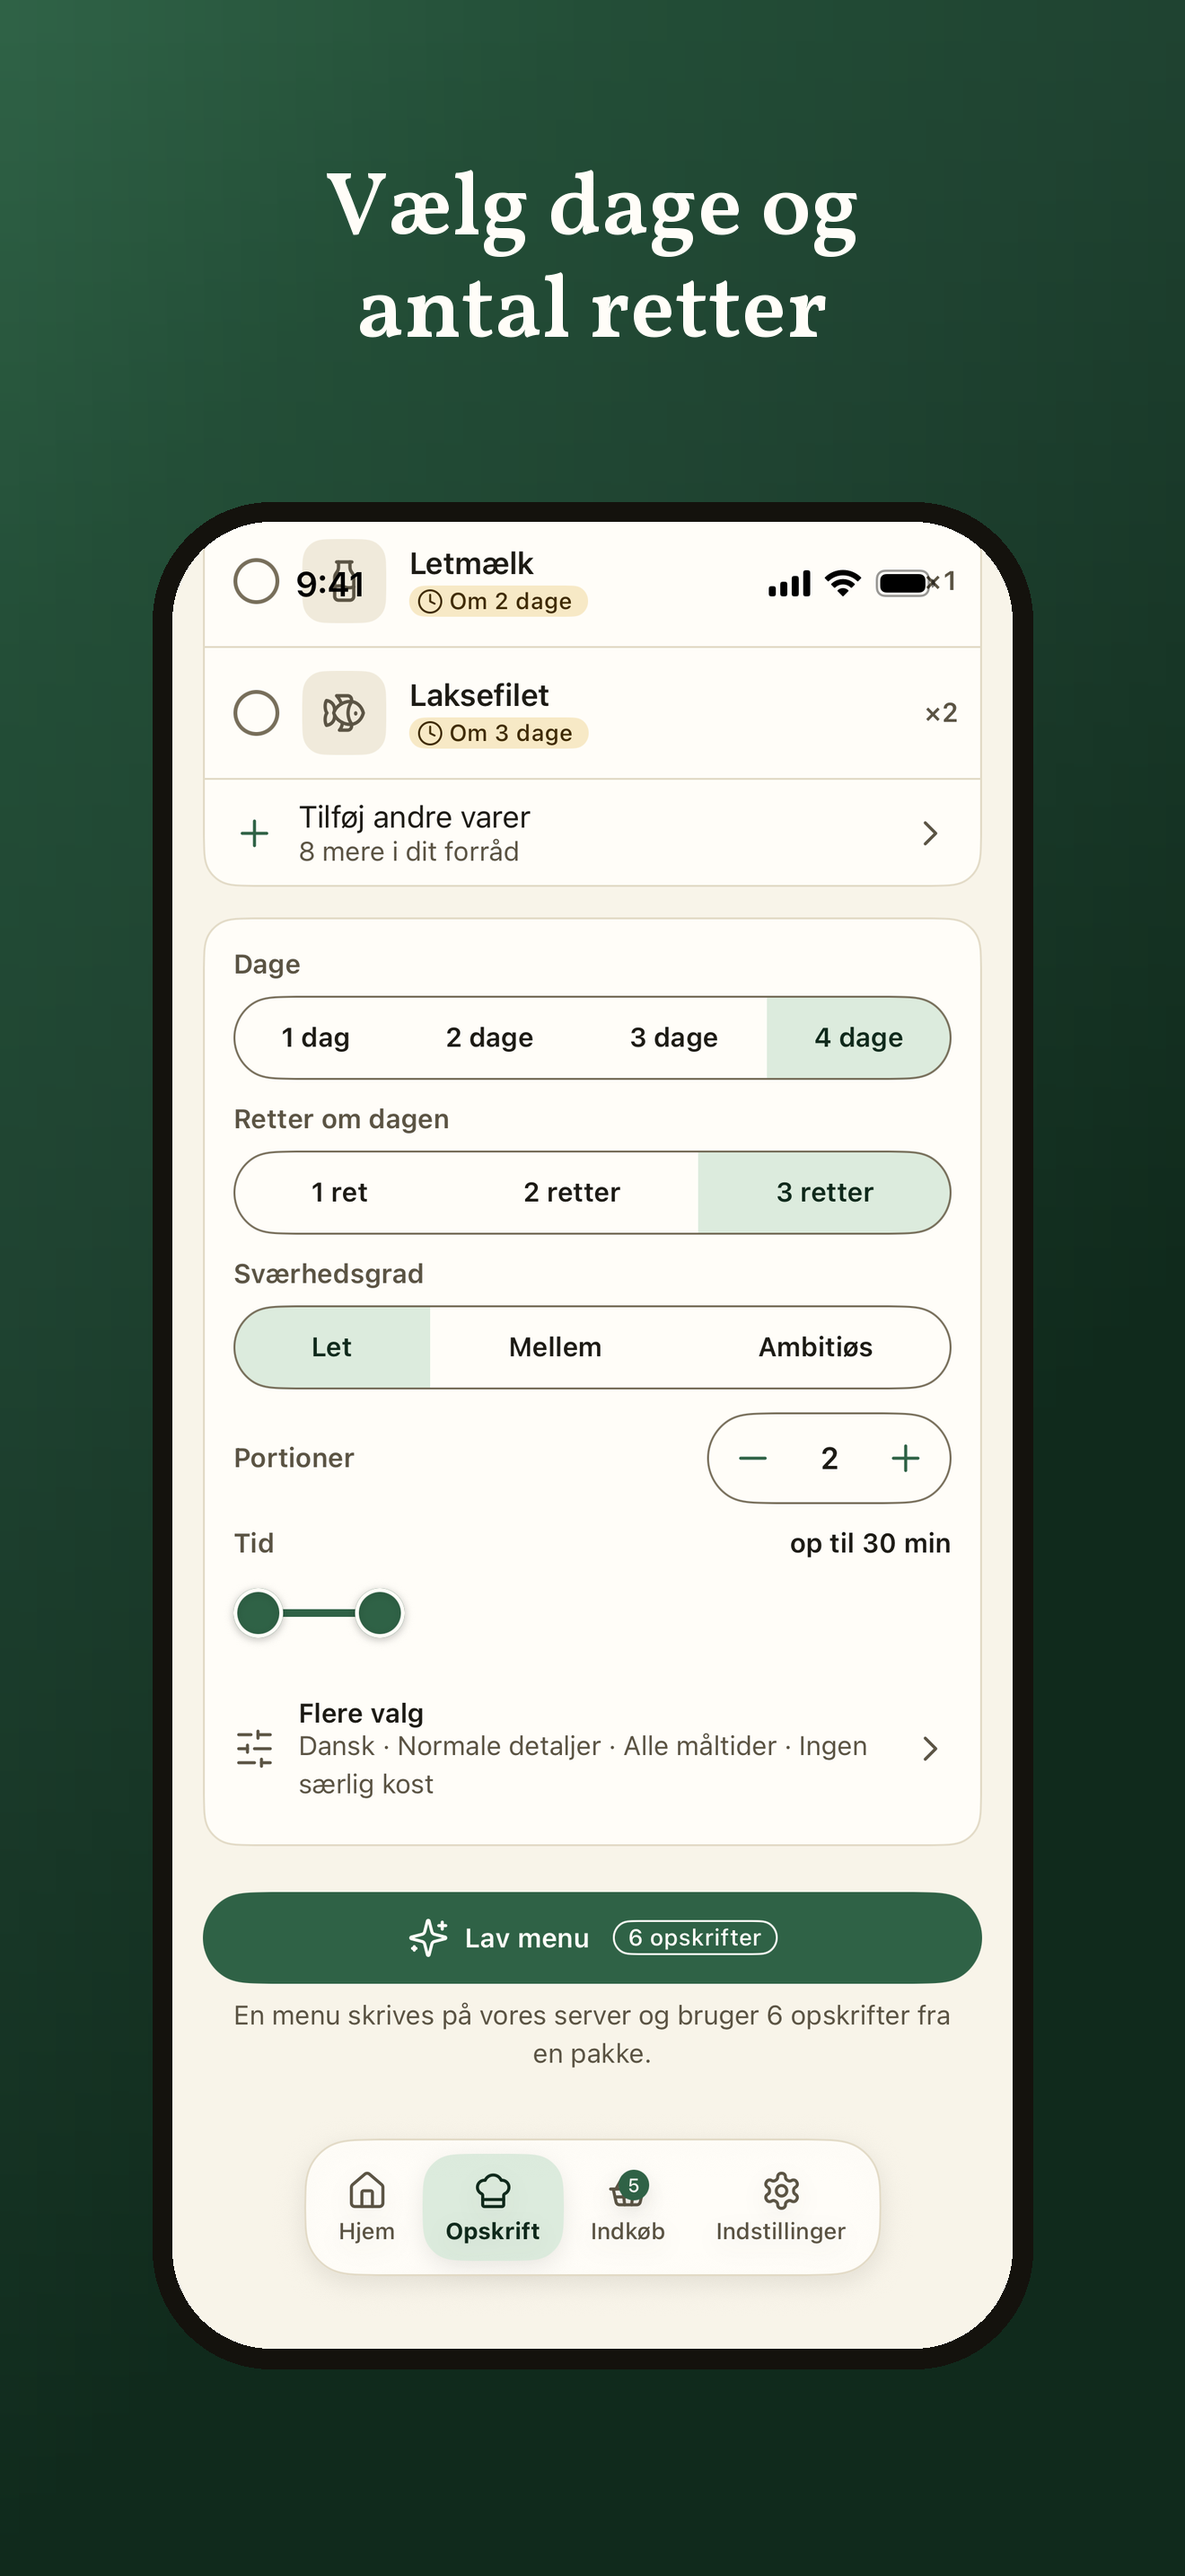
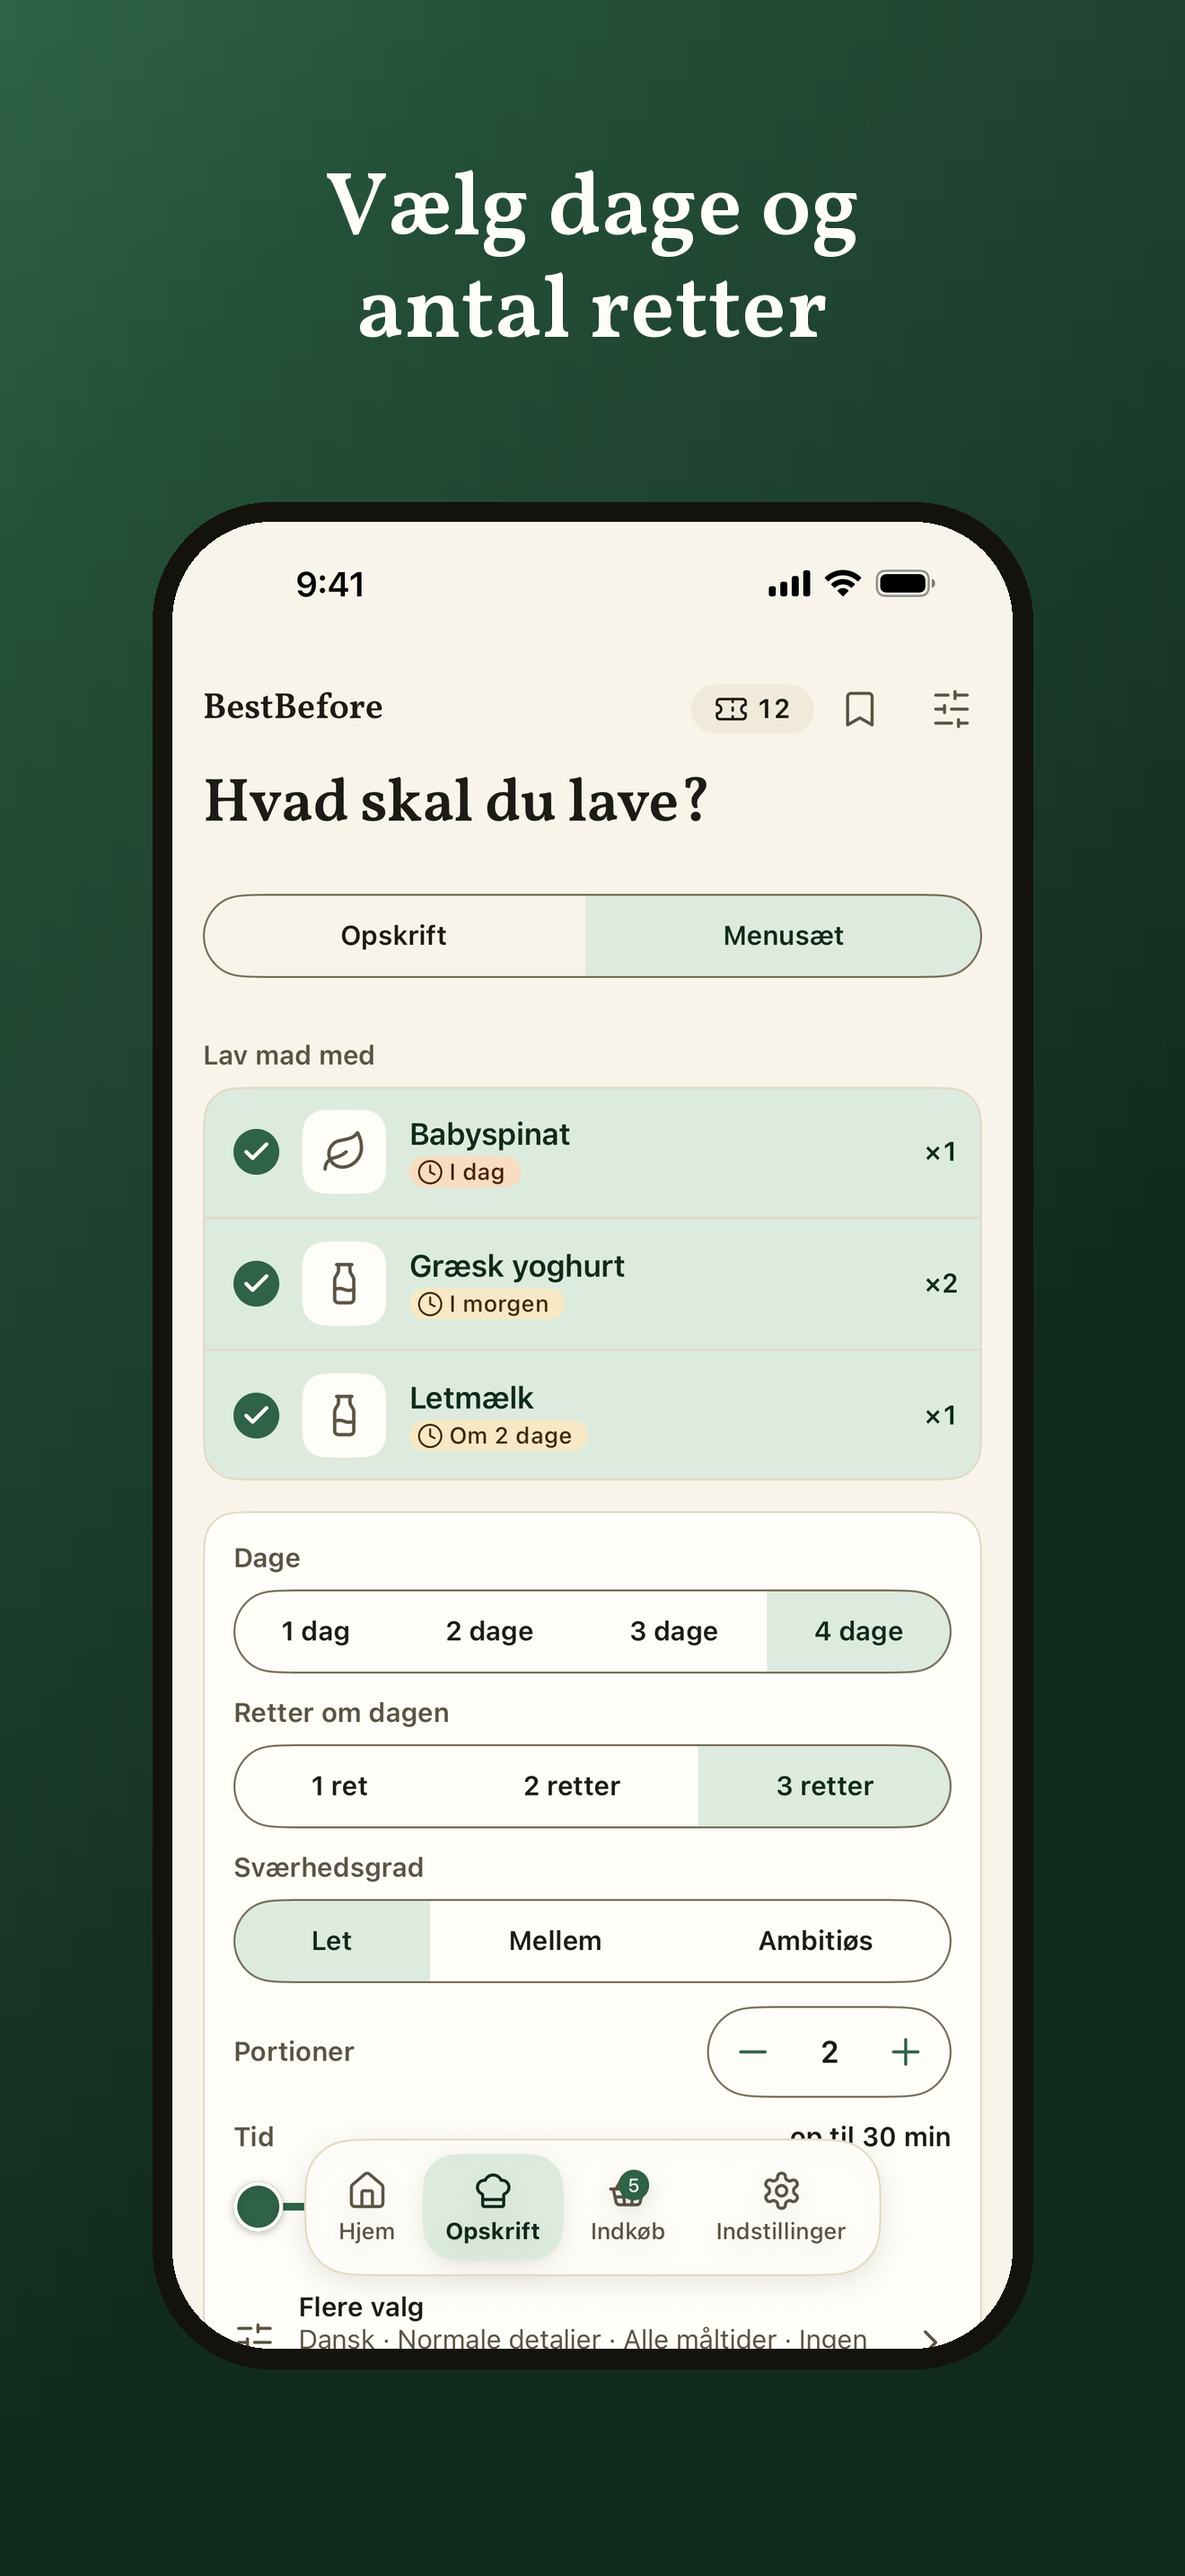
Frame the iPhone Menu set shot at the form's top, clear of the status bar
Scrolled to its end, the Recipe form's rows slid under the status bar in
shot 4 of the 6.9" and 6.3" sets, with "9:41" over a pantry row. The shot now
opens the form at its top with a three-item pantry (DEMO_ITEMS=1,2,3 in
scripts/demo_backup.py: spinach, yoghurt, milk), so the Recipe / Menu set
switch, a short "Cook with" and the Days and Courses choices are all in view;
Generate menu falls below the fold. Only shot 4 of those two sets changed;
Play and the iPad keep theirs.

Claude-Session: https://claude.ai/code/session_01RnV2HAF2qyceRJWfWWkDND

diff --git a/scripts/demo_backup.py b/scripts/demo_backup.py
@@ -9,7 +9,7 @@ today, so the "expires today / tomorrow" labels always read right. Item ids are 
 salmon. The product cache holds the yoghurt the scan demo reads (scripts/demo_scan_image.py), so
 its lookup needs no network; [scan picture url] is its picture, where the app can read it.
 """
-import datetime, json, sys
+import datetime, json, os, sys
 from demo_scan_image import BARCODE, NAMES as SCAN_NAMES
 
 lang, out = sys.argv[1], sys.argv[2]
@@ -69,6 +69,11 @@ entries = [{
     "id": f"demo-entry-{i}", "productName": names[len(pantry) + i], "barcode": None,
     "category": category, "quantity": quantity, "addedDate": day(0), "sortOrder": float(i),
 } for i, (category, quantity) in enumerate(shopping)]
+# DEMO_ITEMS=1,2,3 keeps only those items (by index, ids unchanged): the Menu set screenshot on an
+# iPhone, where a short "Cook with" leaves Days and Courses in view with the form at its top.
+if os.environ.get("DEMO_ITEMS"):
+    keep = {int(i) for i in os.environ["DEMO_ITEMS"].split(",")}
+    items = [item for i, item in enumerate(items) if i in keep]
 document = {
     "version": 1, "exportedAtEpochMillis": 0, "items": items, "shoppingList": entries,
     "categoryPreferences": [],

diff --git a/store-listing/app-store/README.md b/store-listing/app-store/README.md
@@ -39,9 +39,11 @@ iPhone Duo screenshots put an "optimized for iPhone Duo" badge on the product pa
 April 2027 they are required for apps built with the iOS 27.1 SDK.
 
 Every set tells the same story, Google Play's too: 1 Home, 2 a scan that has read a product and
-its printed date, 3 a written recipe (the three that search results show), 4 the Recipe form, scrolled to its end, in
-Menu set mode with Days and Courses chosen and the Generate menu button with its cost ("Choose
-the days and the courses"), 5 the menu set of four days it writes ("Plan up to four days around
+its printed date, 3 a written recipe (the three that search results show), 4 the Recipe form in
+Menu set mode with Days and Courses chosen ("Choose the days and the courses"; on the iPhones
+the form at its top with a three-item pantry, `DEMO_ITEMS` in `scripts/demo_backup.py`, so the
+switch, "Cook with" and both choices are in view; on Play scrolled to its end, Generate menu with
+its cost included; on the iPad the whole form), 5 the menu set of four days it writes ("Plan up to four days around
 what you have": four is the most the form offers, so keep the demo menu in
 `scripts/demo_recipes.py` at four days while the caption says so), 6 the shopping list. The two
 iPhone Duo sets share one group of at most 10 images per language in App Store Connect, so they
